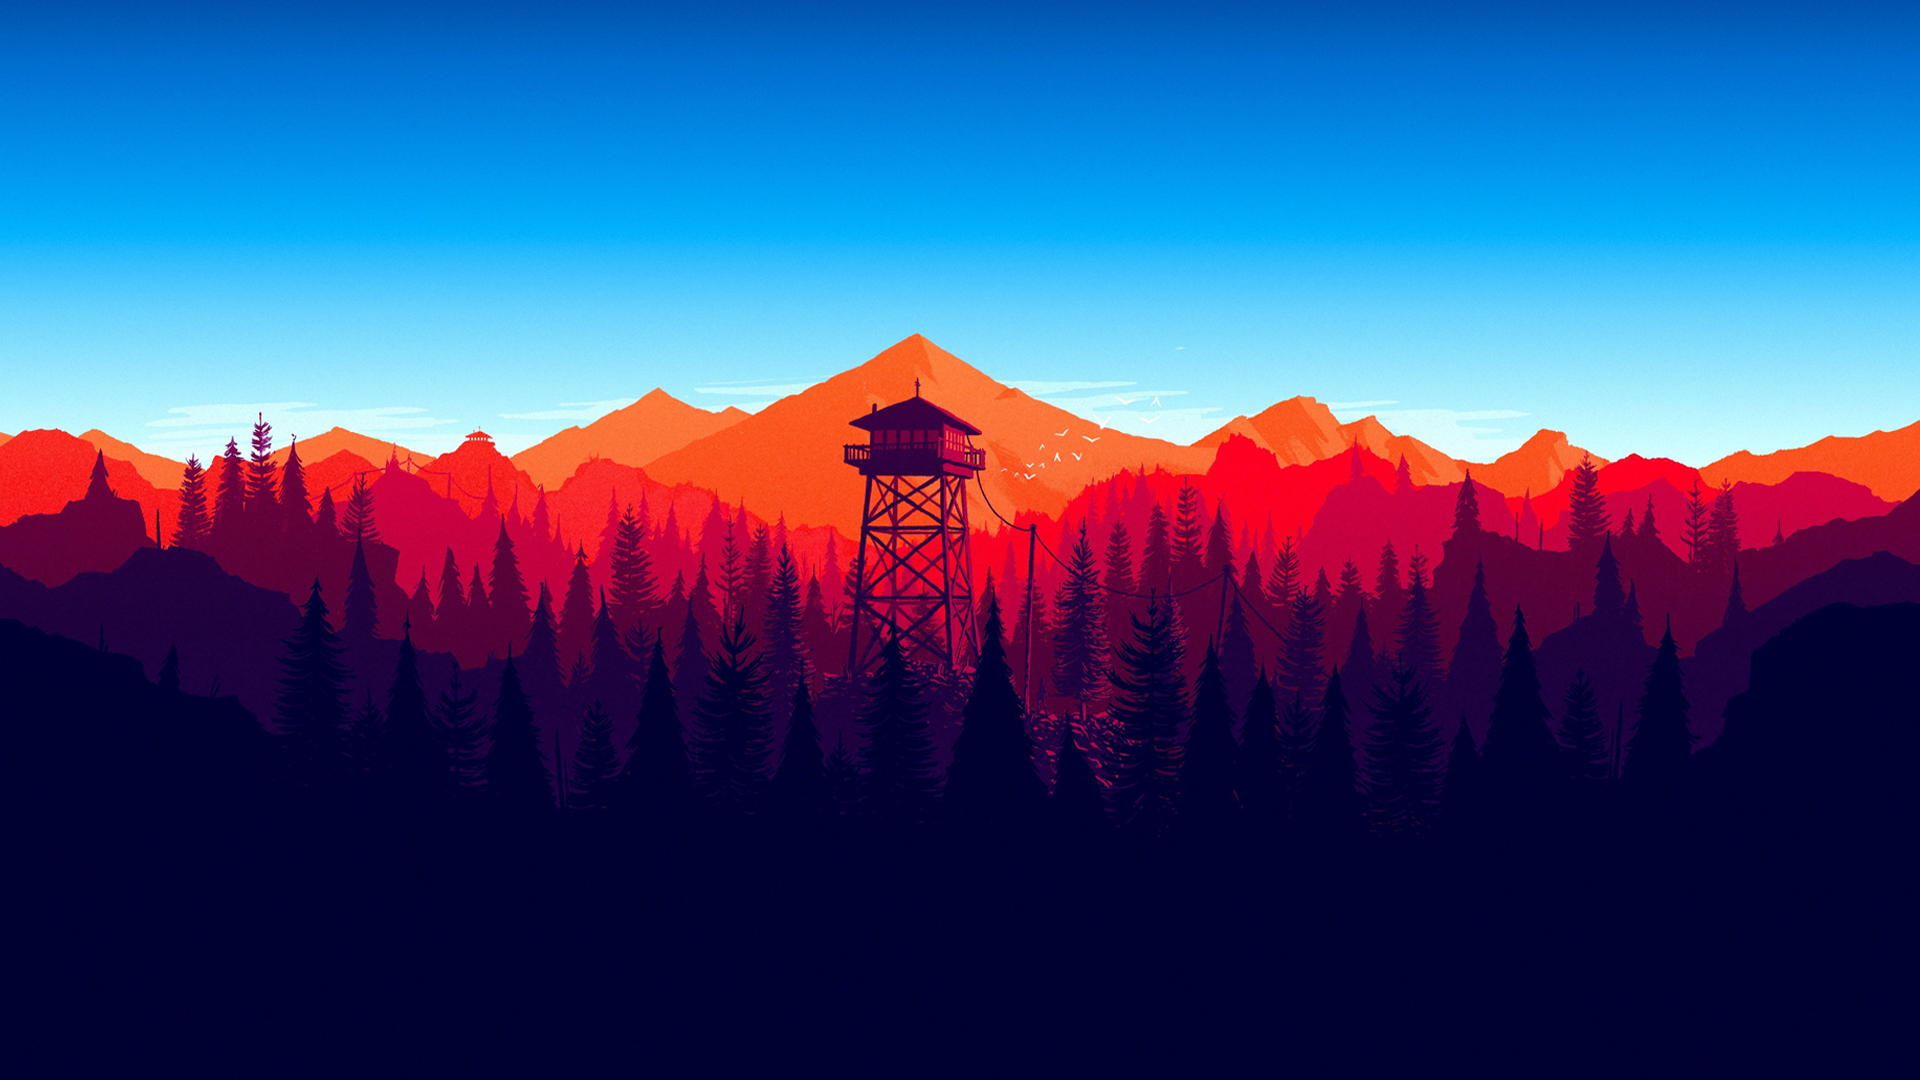
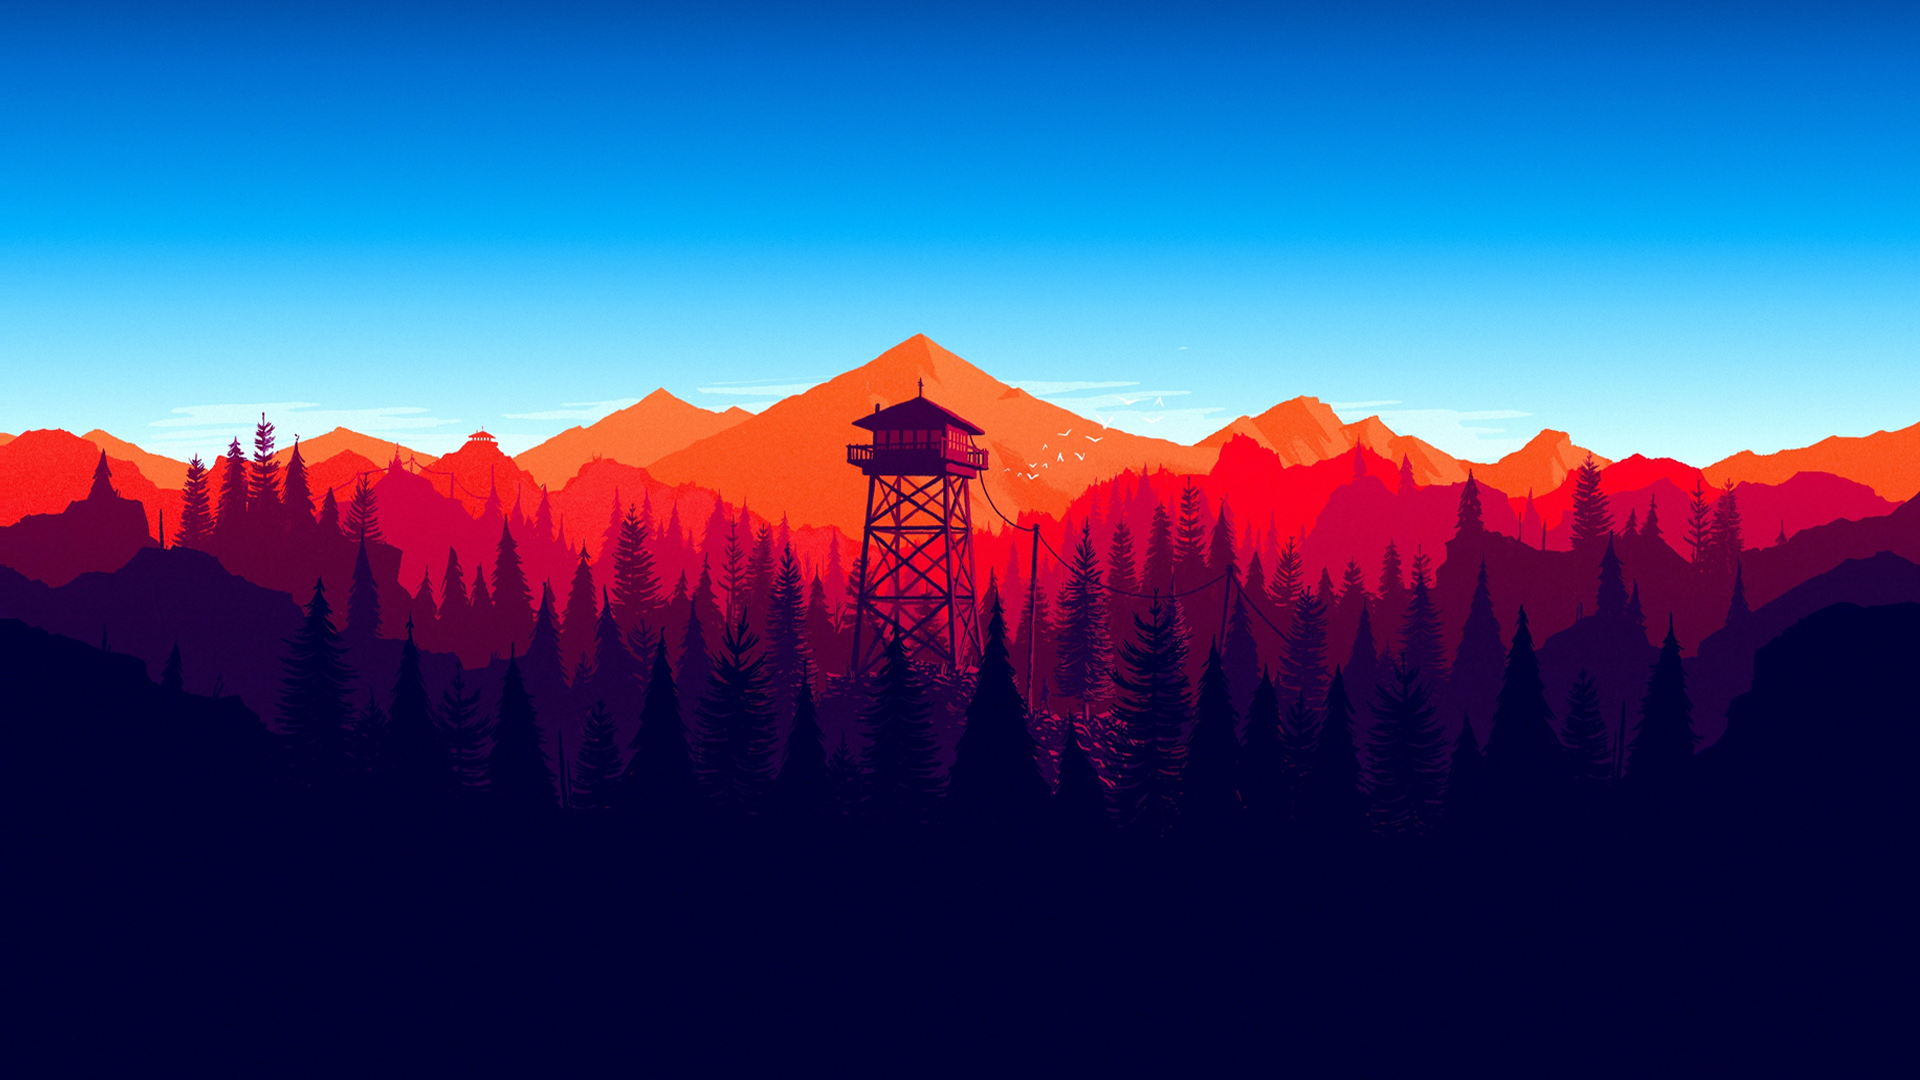
Dynamic background converted to time based system + img fix

diff --git a/scripts/index.js b/scripts/index.js
@@ -1,20 +1,23 @@
+var lastPrimaryBG = ''
+var lastSecondaryBG = ''
+var currMinute = (new Date() - new Date().setHours(0, 0, 0, 0)) / 60000;
+
 function init() {
+    setupDynamicBackground()
+}
 
-    document.getElementById('timeSlider').oninput = function() {
-        var val = this.value;
-        var primaryBG = 'dusk'
-        var secondaryBG = 'night';
-
+function setupDynamicBackground() {
+    function advanceBackground() {
         switch (true) {
-            case (val < 250):
+            case (currMinute < 360):
                 primaryBG = 'dusk';
                 secondaryBG = 'night';
                 break;
-            case (val < 500):
+            case (currMinute < 720):
                 primaryBG = 'day';
                 secondaryBG = 'dusk';
                 break;
-            case (val < 750):
+            case (currMinute < 1080):
                 primaryBG = 'dusk';
                 secondaryBG = 'day';
                 break;
@@ -23,15 +26,21 @@ function init() {
                 secondaryBG = 'dusk';
         }
         let primary = document.getElementById("background-primary");
+        if (lastPrimaryBG !== primaryBG) {
+            primary.style.background = `url('images/${primaryBG}.png')`;
+            primary.style.backgroundPosition = 'center';
+            lastPrimaryBG = primaryBG;
+        }
+        primary.style.opacity = 1 / 360 * (currMinute % 360);
+
         let secondary = document.body;
-
-        primary.style.background = `url('images/${primaryBG}.png')`;
-        primary.style.opacity = 1 / 250 * (val % 250);
-        primary.style.backgroundPosition = 'center';
-
-        secondary.style.background = `url('images/${secondaryBG}.png')`;
-        secondary.style.backgroundPosition = 'center';
-
-
+        if (lastSecondaryBG !== secondaryBG) {
+            secondary.style.background = `url('images/${secondaryBG}.png')`;
+            secondary.style.backgroundPosition = 'center';
+            lastSecondaryBG = secondaryBG;
+        }
+        currMinute++;
     }
+    advanceBackground();
+    setInterval(advanceBackground, 60000);
 }

diff --git a/styles/index.css b/styles/index.css
@@ -1,6 +1,4 @@
        body {
-           background: url("../images/night.png");
-           background-position: center;
            z-index: -2;
        }
        
@@ -11,8 +9,4 @@
            width: 100%;
            height: 100%;
            z-index: -1;
-           height: 100%;
-           background: url("../images/dusk.png");
-           background-position: center;
-	   opacity: 0%;
        }

diff --git a/index.html b/index.html
@@ -10,7 +10,6 @@
 <body onload="init()">
     <div id="background-primary">
     </div>
-    <input type="range" min="0" max="1000" value="0" class="slider" id="timeSlider">
 </body>
 
 </html>
